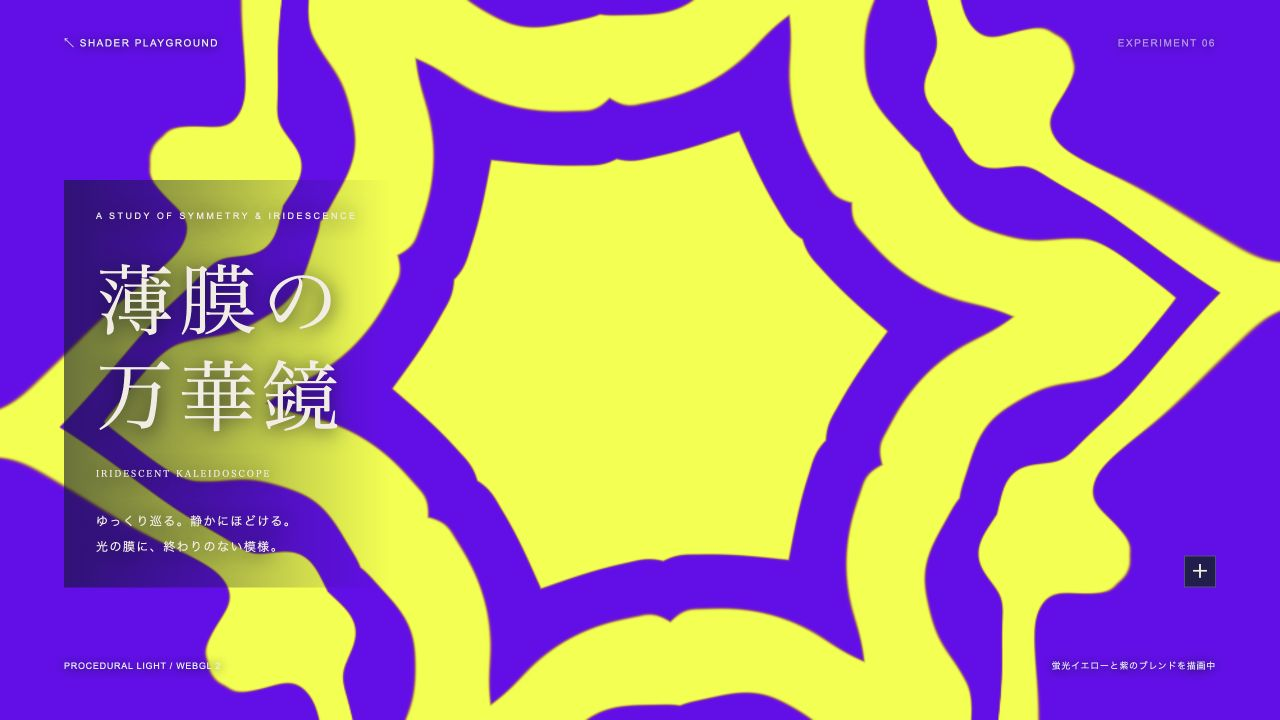
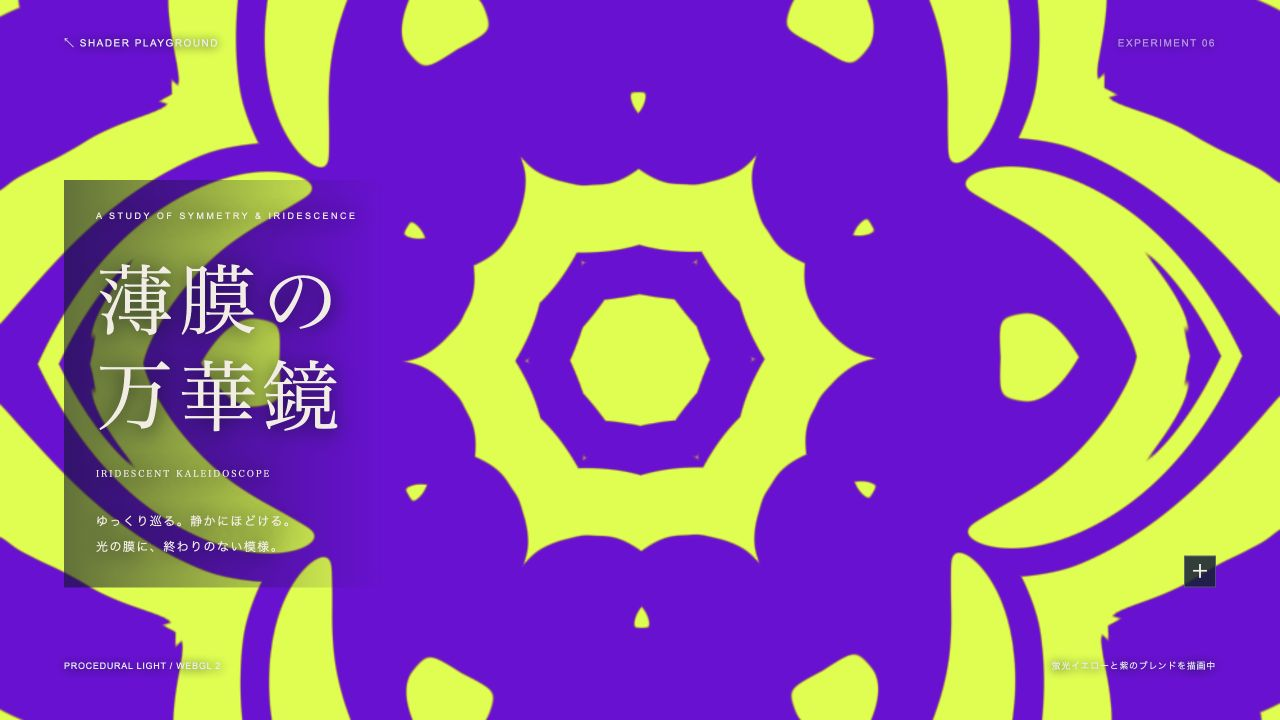
feat: replace concentric kaleidoscope bands with marbled eddies

diff --git a/kaleidoscope/index.html b/kaleidoscope/index.html
@@ -1,6 +1,6 @@
 <!doctype html>
 <html lang="ja">
-<head><meta charset="utf-8"><meta name="viewport" content="width=device-width,initial-scale=1"><meta name="theme-color" content="#101727"><title>薄膜の万華鏡 — Shader Playground</title><link rel="stylesheet" href="style.css?v=acid-fluid-6"><script src="app.js?v=acid-fluid-6" type="module"></script></head>
+<head><meta charset="utf-8"><meta name="viewport" content="width=device-width,initial-scale=1"><meta name="theme-color" content="#101727"><title>薄膜の万華鏡 — Shader Playground</title><link rel="stylesheet" href="style.css?v=marble-7"><script src="app.js?v=marble-7" type="module"></script></head>
 <body>
 <canvas id="view" aria-label="蛍光イエローと紫がゆっくり混ざり、大きな模様が回る万華鏡"></canvas>
 <header><a href="../">↖ SHADER PLAYGROUND</a><span>EXPERIMENT 06</span></header>

diff --git a/kaleidoscope/app.js b/kaleidoscope/app.js
@@ -63,7 +63,7 @@ async function init() {
     try {
         gl = canvas.getContext('webgl2', { alpha: false, antialias: false, depth: false });
         if (!gl) throw Error('WebGL 2 unavailable');
-        const response = await fetch('film.frag?v=acid-fluid-6');
+        const response = await fetch('film.frag?v=marble-7');
         if (!response.ok) throw Error('Shader download failed');
         const source = await response.text();
         function link(source) {

diff --git a/kaleidoscope/README.md b/kaleidoscope/README.md
@@ -1,13 +1,19 @@
-# 薄膜の万華鏡 / Two-colour prototype
+# 薄膜の万華鏡 / Marbled flow prototype
 
-蛍光イエローと紫の2色と、その中間色だけで描くシンプルな万華鏡。前の極彩色版から空間倍率と模様の周波数を大幅に下げ、大きな六方向対称の形がゆっくり混ざる表現に変更しました。
+蛍光イエローと紫の2色を、中心からの同心円ではなく、渦で曲げた帯として描く万華鏡です。
 
-2段のノイズと弱い1段の座標ワープを使用。8色パレット、細い等高線、色収差、ブルーム、彩度の再強調を取り除き、`mix(deepPurple, fluorescentYellow, colorMixRatio)`で直接出力します。1パスのWebGL 2描画で、オフスクリーンのバッファは使いません。
+## 模様の生成
 
-回転と内部の流れは独立して調整可能。初期値で約322秒で一周します。速度変更で形が飛ばない積算方式、一時停止・再生、最初から、モーション低減、非表示中の連続描画停止、コンテキスト復帰は維持。
+先に独立した直交座標のマーブル場を定義。位置・半径・方向の違う3つの局所的な渦で座標を曲げ、弱いノイズを重ねます。太い流れの内部には従属する細い帯を入れ、広い面と細い筋を共存させています。その場の中心からずれた領域を六方向の鏡で折り返します。
 
-リポジトリルートで `python3 -m http.server 8000`、`/kaleidoscope/` を開きます。ビルドや外部ライブラリは不要です。
+色の周期には画面中心からの距離を使いません。渦の巻き込み量や中心位置がゆっくり変わり、帯に巻き込み・くびれ・折り返しが現れます。物理的な流体シミュレーションや保存則に基づく移流ではなく、連続的な座標変形による近似です。
 
-確認: JavaScript構文チェック、git diff --check。PC・390px幅のブラウザーで描画・停止・調整UIを確認。
+2色の値はイエロー(.85,1,0)、紫(.45,0,.85)。境界にだけ最小限のブレンドと画素幅に応じたアンチエイリアスを入れます。多色パレット・ブルーム・色収差は使いません。
 
-ユーザー提示のパレット（.85,1,0）と（.45,0,.85）、fluidDistort／psychWave、狭いsmoothstep境界を採用。輪だけにならないよう座標を歪ませ、時間は既存のゆっくりした動きに合わせて0.22倍。境界にはfwidthで最小限のアンチエイリアスを適用しています。WebGL 2に合わせgl_FragColorではなくout変数へ出力します。
+## 操作・実行
+
+32pxの＋から回転と内部の流れを独立に調整。一時停止／再生、最初から、Escでパネル閉鎖に対応。回転は初期値で約322秒／周。モーション低減設定では静止状態から開始。非表示中は連続描画を停止します。
+
+WebGL 2の1パス描画で、外部依存はありません。リポジトリルートで `python3 -m http.server 8000` を実行し `/kaleidoscope/` を開きます。
+
+検証: `node --check kaleidoscope/app.js`、`git diff --check`。PCと390px幅の実ブラウザーで描画・パネル・停止・リサイズを確認。
